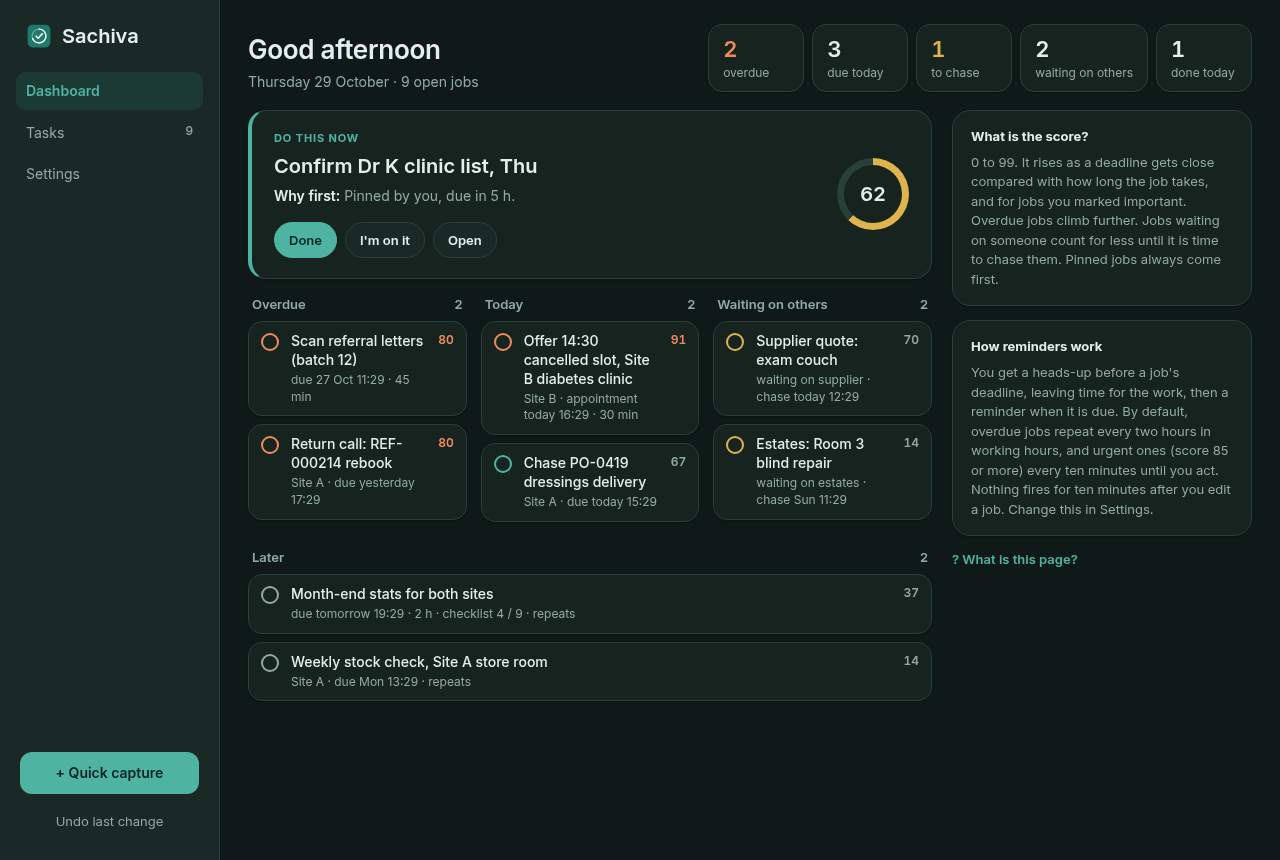
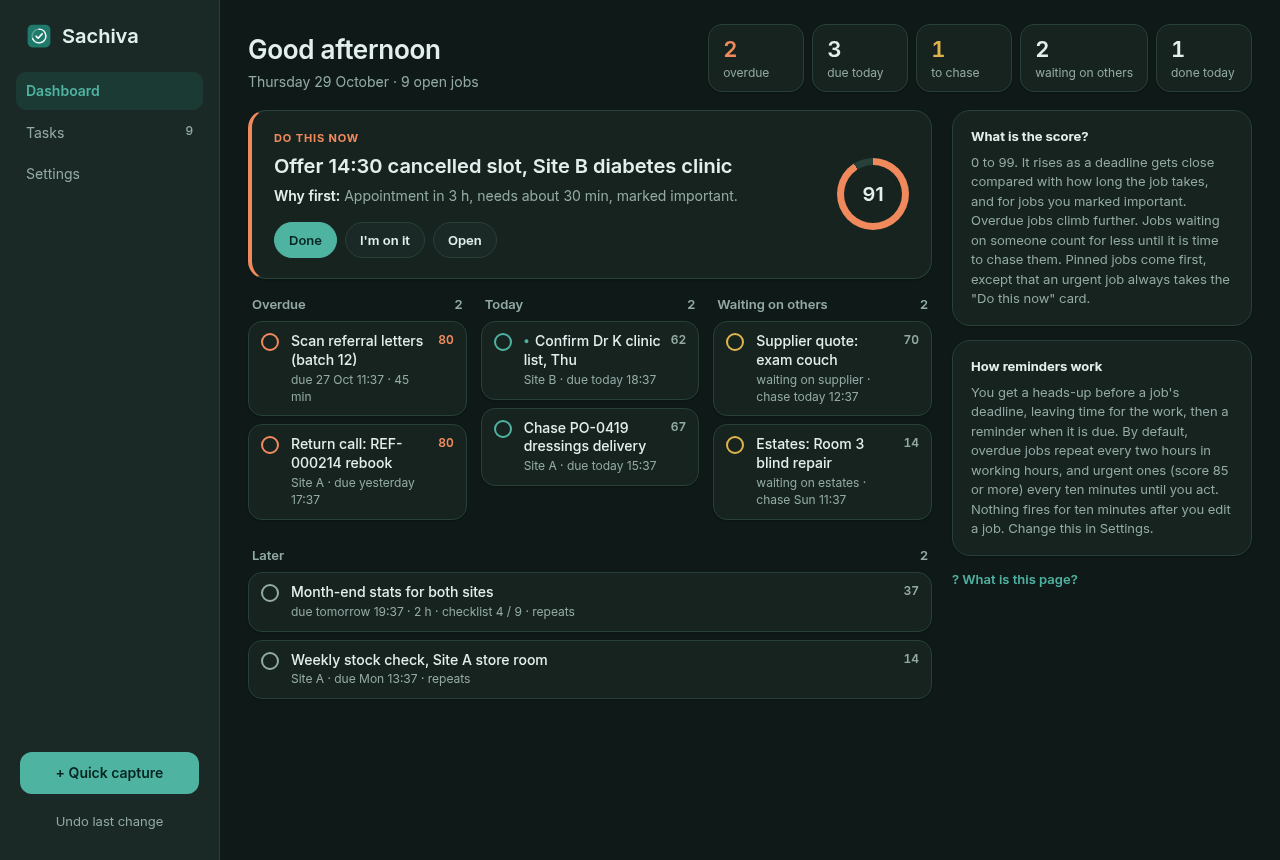
Urgent jobs take the Do this now card over pinned ones

diff --git a/app/src/lib/Dashboard.svelte b/app/src/lib/Dashboard.svelte
@@ -144,7 +144,7 @@
       <p class="muted">
         0 to 99. It rises as a deadline gets close compared with how long the job takes, and for jobs you marked
         important. Overdue jobs climb further. Jobs waiting on someone count for less until it is time to chase them.
-        Pinned jobs always come first.
+        Pinned jobs come first, except that an urgent job always takes the "Do this now" card.
       </p>
     </div>
     <div class="card box">

diff --git a/core/src/dashboard.rs b/core/src/dashboard.rs
@@ -47,7 +47,9 @@ pub struct Dashboard {
     pub figures: Vec<Figure>,
 }
 
-pub fn build(tasks: &[Task], now: Timestamp, tz: &TimeZone) -> Dashboard {
+/// `urgent_score` is the reminder setting: an urgent job takes the "now" card
+/// even over a pinned one, because pins are for order, not for emergencies.
+pub fn build(tasks: &[Task], now: Timestamp, tz: &TimeZone, urgent_score: u8) -> Dashboard {
     let end_of_day = now
         .to_zoned(tz.clone())
         .tomorrow()
@@ -75,7 +77,15 @@ pub fn build(tasks: &[Task], now: Timestamp, tz: &TimeZone) -> Dashboard {
         .count();
 
     // "Now" is the top job you can act on: not one still waiting on someone.
-    let pick = items.iter().position(|i| i.lane != Lane::Waiting || i.score >= 60);
+    // The most urgent job comes before pinned ones.
+    let actionable = |i: &Item| i.lane != Lane::Waiting || i.score >= 60;
+    let pick = items
+        .iter()
+        .enumerate()
+        .filter(|(_, i)| actionable(i) && i.score >= urgent_score)
+        .max_by_key(|(n, i)| (i.score, std::cmp::Reverse(*n)))
+        .map(|(n, _)| n)
+        .or_else(|| items.iter().position(actionable));
     let now_item = pick.map(|i| items.remove(i));
 
     let figures = vec![
@@ -144,7 +154,7 @@ mod tests {
         let mut done = Task::new("Order toner", made);
         done.status = Status::Done { at: at("2026-11-04T10:00:00Z") };
 
-        let d = build(&[tomorrow, wait, done, today, late], now, &tz);
+        let d = build(&[tomorrow, wait, done, today, late], now, &tz, 85);
         let now_item = d.now.unwrap();
         assert_eq!(now_item.task.title, "Return call REF-000214");
         assert_eq!(now_item.lane, Lane::Overdue);
@@ -161,8 +171,28 @@ mod tests {
     }
 
     #[test]
+    fn urgent_job_beats_a_pin_for_now() {
+        let tz = TimeZone::UTC;
+        let now = at("2026-11-04T12:00:00Z");
+        let made = at("2026-11-01T09:00:00Z");
+        let mut pinned = Task::new("Confirm clinic list", made);
+        pinned.due = Some(at("2026-11-04T17:00:00Z"));
+        pinned.pinned = true;
+        let mut slot = Task::new("Offer cancelled slot", made);
+        slot.appointment = Some(at("2026-11-04T15:00:00Z"));
+        slot.effort_min = Some(30);
+        slot.importance = crate::model::Importance::High;
+        let d = build(&[pinned.clone(), slot], now, &tz, 85);
+        assert_eq!(d.now.unwrap().task.title, "Offer cancelled slot");
+        assert_eq!(d.items[0].task.title, "Confirm clinic list");
+        // With nothing urgent, the pin wins.
+        let d = build(&[pinned], now, &tz, 85);
+        assert_eq!(d.now.unwrap().task.title, "Confirm clinic list");
+    }
+
+    #[test]
     fn empty_day() {
-        let d = build(&[], at("2026-11-04T12:00:00Z"), &TimeZone::UTC);
+        let d = build(&[], at("2026-11-04T12:00:00Z"), &TimeZone::UTC, 85);
         assert!(d.now.is_none() && d.items.is_empty());
         assert_eq!(d.figures[0].tone, "");
     }

diff --git a/core/examples/demo.rs b/core/examples/demo.rs
@@ -63,7 +63,7 @@ fn main() {
     let tasks = [slot, call, scan, po, list, stats, quote, blind, stock, toner.clone()];
     let tz = TimeZone::try_system().unwrap_or(TimeZone::UTC);
     let out = serde_json::json!({
-        "dashboard": dashboard::build(&tasks, now, &tz),
+        "dashboard": dashboard::build(&tasks, now, &tz, Settings::default().urgent_score),
         "done": [toner],
         "settings": Settings::default(),
     });

diff --git a/app/src-tauri/src/lib.rs b/app/src-tauri/src/lib.rs
@@ -141,7 +141,7 @@ fn unlock_with(app: AppHandle, state: State<App>, recovery: String) -> CommandRe
 #[tauri::command]
 fn get_dashboard(state: State<App>) -> CommandResult<Dashboard> {
     let tasks = state.with(|s| s.tasks())?;
-    Ok(dashboard::build(&tasks, Timestamp::now(), &state.tz))
+    Ok(dashboard::build(&tasks, Timestamp::now(), &state.tz, state.settings().urgent_score))
 }
 
 /// Finished jobs, newest first.

diff --git a/README.md b/README.md
@@ -99,7 +99,8 @@ flowchart LR
 ```
 
 - The **score** (0 to 99) rises as the deadline gets close compared with how long the job takes. Important
-  jobs get more; overdue jobs climb further. Pinned jobs come first.
+  jobs get more; overdue jobs climb further. Pinned jobs come first,
+  but an urgent job always takes the **Do this now** card.
 - Jobs **waiting on someone** count for less until it is time to chase them.
 - **Reminders** are worked out from the same rules, so the dashboard and your notifications always agree.
 - Every number on the dashboard explains itself: tap it.
